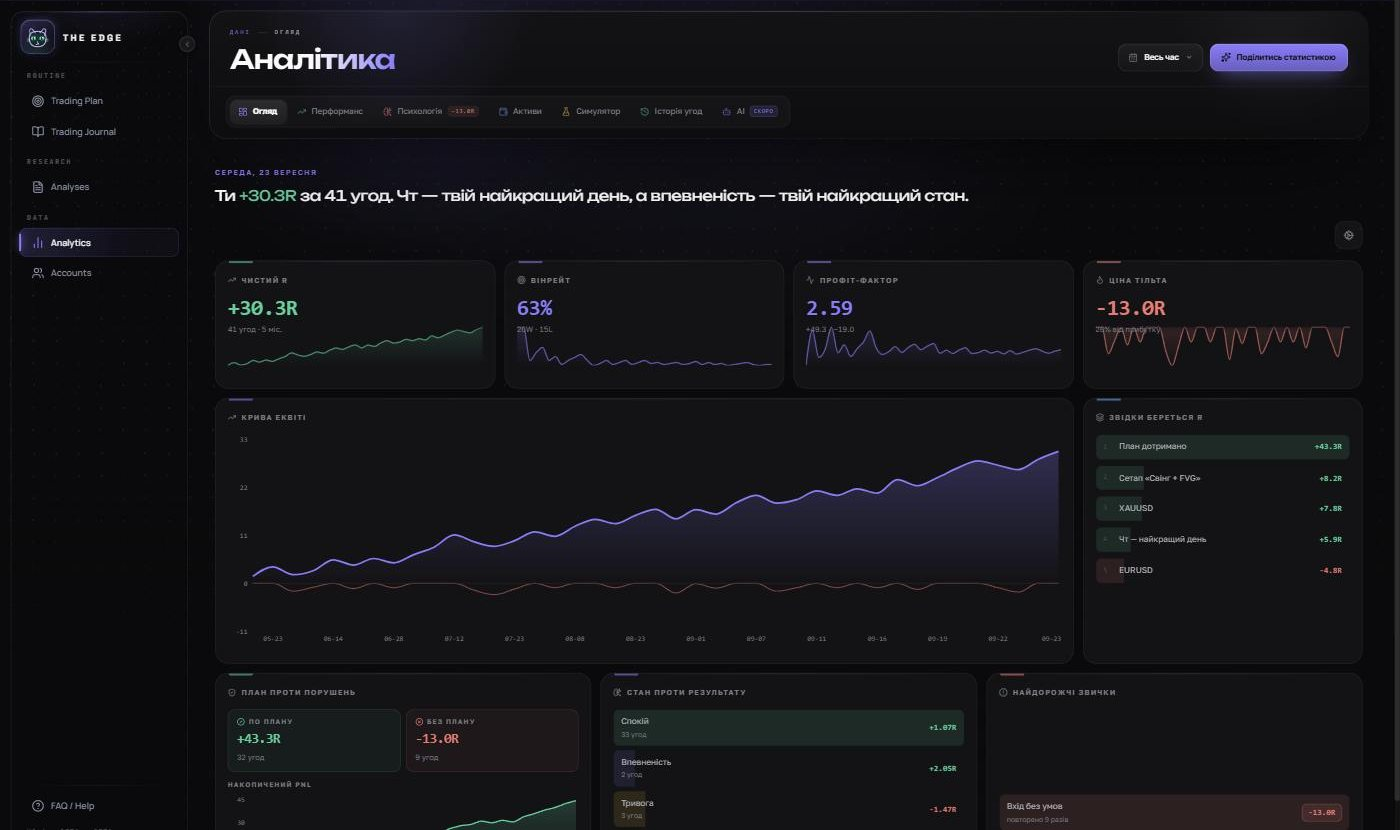
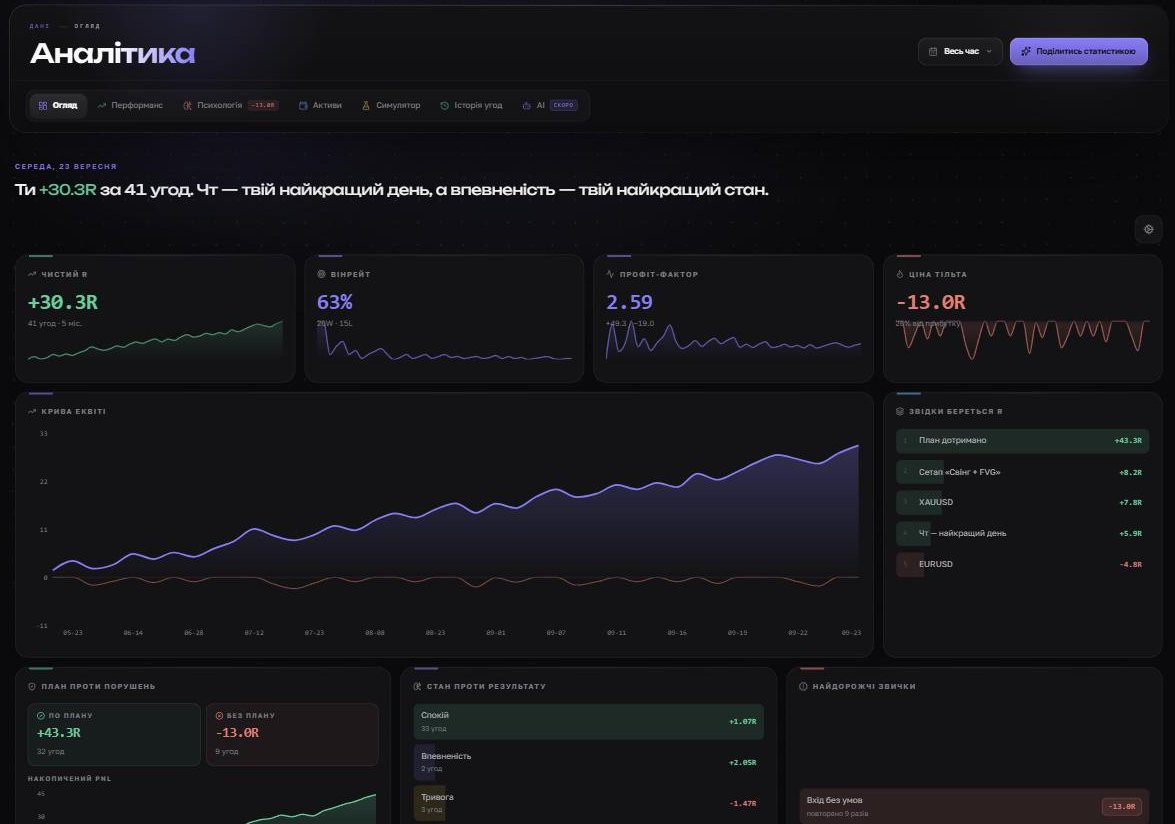
Блог: дві нові статті зі скрінами; Pro до 5 рахунків; анкета без автопоказу

diff --git a/src/lib/blogContent.js b/src/lib/blogContent.js
@@ -189,7 +189,7 @@ const POSTS = [
 
 ## Скільки це коштує
 
-Базова версія безкоштовна назавжди: журнал, план, помилки, аналітика, один рахунок. Pro коштує $15 на місяць і додає автоімпорт з MT5, Telegram-бота, бектест і необмежену кількість рахунків. Перші 14 днів Pro безкоштовні, потрібна лише прив'язка картки, гроші не списуються.
+Базова версія безкоштовна назавжди: журнал, план, помилки, аналітика, один рахунок. Pro коштує $15 на місяць і додає автоімпорт з MT5, Telegram-бота, бектест і до 5 рахунків. Перші 14 днів Pro безкоштовні, потрібна лише прив'язка картки, гроші не списуються.
 
 Якщо хочеш одразу розібратись, що де лежить, у нас є окрема стаття: [як користуватись The Edge](/uk/blog/yak-korystuvatys-the-edge).
 `,
@@ -204,7 +204,7 @@ const POSTS = [
     title: 'Як користуватись The Edge: гід по журналу від першого входу',
     excerpt: 'Покроково: як підключити MetaTrader 5, де писати план дня, як вести журнал угод і помилок, що показує аналітика і навіщо потрібні бектест, чекліст і метод 20 угод.',
     tags: ['гід', 'як вести журнал трейдера', 'автоімпорт MT5', 'торговий журнал'],
-    cover: { tone: 'blue', hint: 'Аналітика The Edge', src: '/blog/guide/analytics.jpg' },
+    cover: { tone: 'blue', hint: 'Launchpad The Edge', src: '/blog/guide/launchpad.jpg' },
     seo: {
       title: 'Як користуватись торговим журналом The Edge: повний гід',
       description: 'Покроковий гід по The Edge: підключення MetaTrader 5, план дня, журнал угод і помилок, аналітика, бектест, календар новин і налаштування. Зі скріншотами.',
@@ -217,6 +217,8 @@ const POSTS = [
 ## Перше, що варто зробити
 
 Після реєстрації ти потрапляєш на **Launchpad**. Це стартова сторінка: вона показує не «що вміє журнал», а що в тебе не закрито сьогодні. План на день, угоди без розбору, нерозібрані помилки. Плитки стоять у тому порядку, в якому їх зазвичай відкривають: спершу підготовка, потім робота, потім розбір.
+
+![Launchpad: що не закрито сьогодні й усі розділи журналу](/blog/guide/launchpad.jpg)
 
 Дві речі, які варто зробити в перший же день:
 
@@ -324,7 +326,7 @@ const POSTS = [
 
 ## Безкоштовно і Pro
 
-Безкоштовна версія лишається назавжди: журнал, план, помилки, аналітика й один рахунок. Pro додає автоімпорт з MT5, Telegram-бота, бектест і необмежену кількість рахунків. Перші 14 днів Pro безкоштовні, потрібна лише прив'язка картки.
+Безкоштовна версія лишається назавжди: журнал, план, помилки, аналітика й один рахунок. Pro додає автоімпорт з MT5, Telegram-бота, бектест і до 5 рахунків. Перші 14 днів Pro безкоштовні, потрібна лише прив'язка картки.
 
 ## Якщо щось не працює
 

diff --git a/src/lib/billing.js b/src/lib/billing.js
@@ -146,7 +146,7 @@ export const PRO_FEATURES = {
     hint: 'Нова угода, підсумок дня, таймери з плану — у чат',
   },
   accounts: {
-    title: 'Безлім рахунків',
+    title: 'До 5 рахунків',
     hint: 'Проп-челенджі, реал і демо окремо — з власною статистикою на кожному',
   },
   backtest: {
